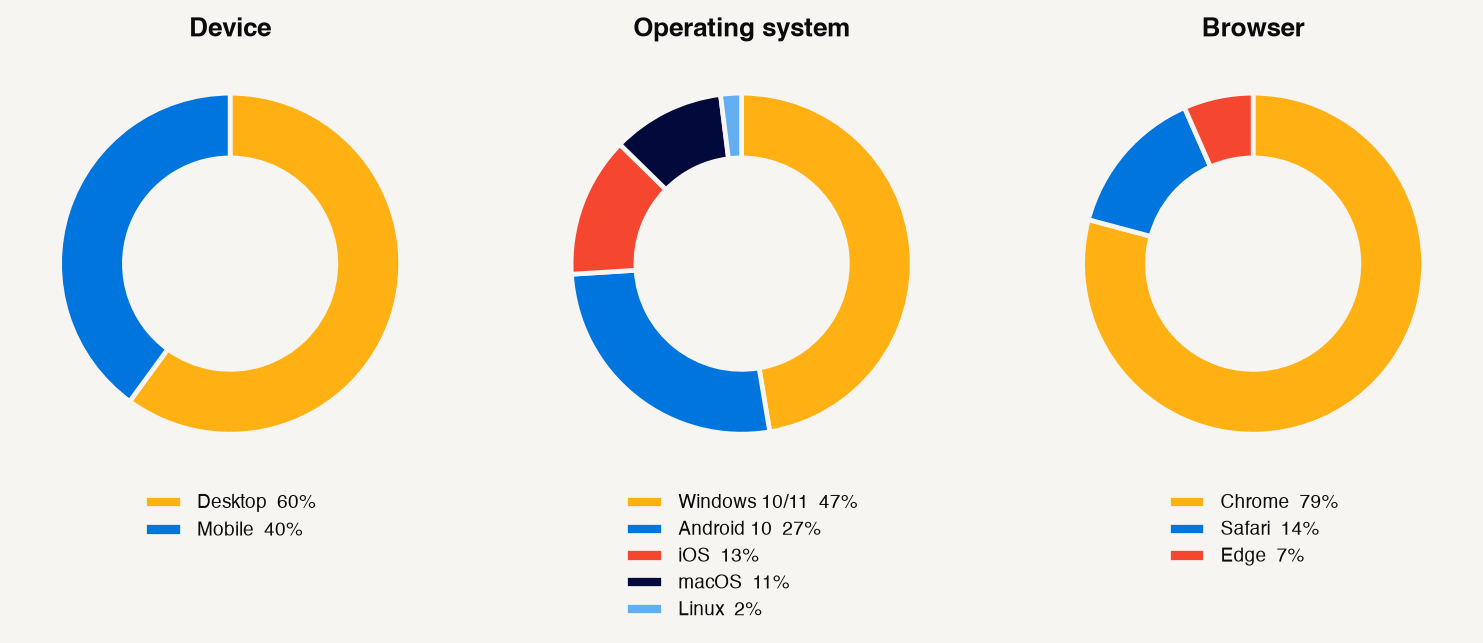
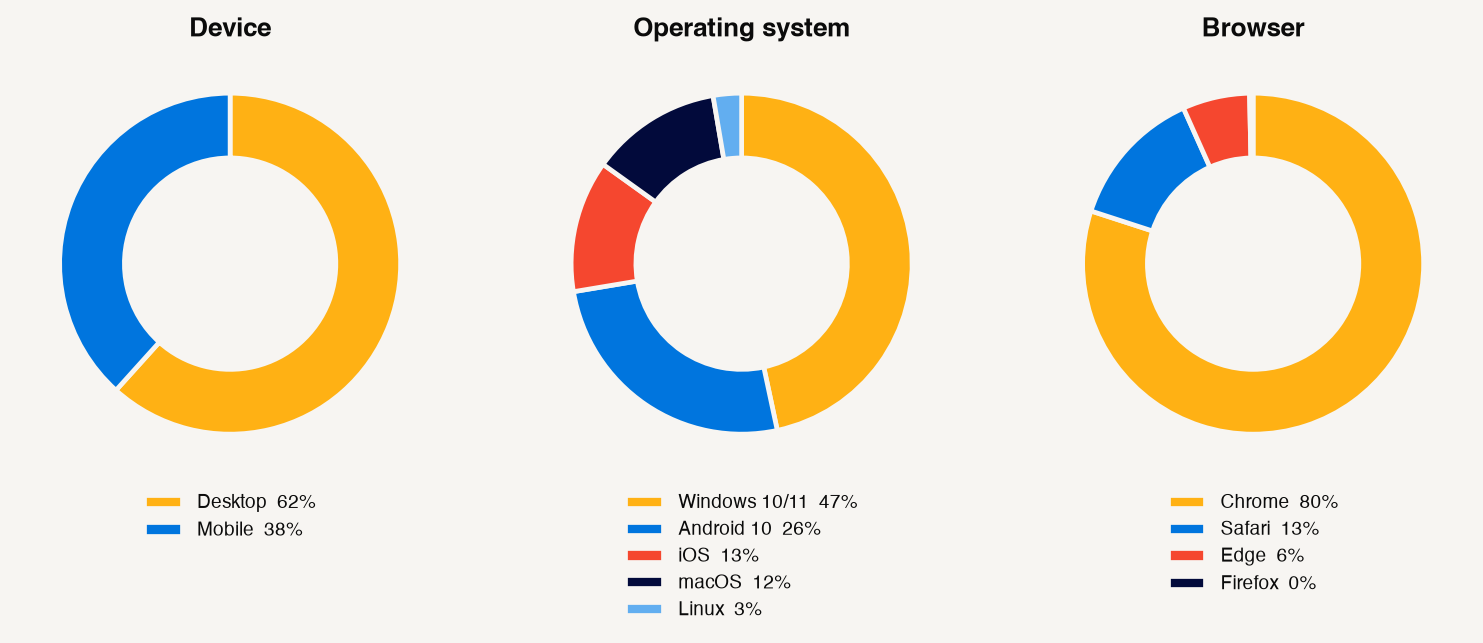
Refresh analytics to 44 hours of data

diff --git a/README.md b/README.md
@@ -21,7 +21,7 @@ Every semester, every engineering student has to submit a **lab record file**: t
 | **Time to a finished file** | a few seconds (median **3.3 s** click to file) |
 | **Login** | none |
 | **Install** | none, runs in the browser, works on phones |
-| **First 27 hours live** | **255** unique visitors, **758** files delivered, **97.3 %** success rate |
+| **First 44 hours live** | **291** unique visitors, **895** files delivered, **97.7 %** success rate |
 
 ---
 
@@ -272,29 +272,29 @@ What that pipeline gave the files:
 
 ## 9. Launch analytics (anonymous)
 
-First **27 hours** after going live, measured from the product's own usage log (IST). Everything here is aggregated and anonymous.
+First **44 hours** after going live (17 Nov, 4 PM to 19 Nov, noon), measured from the product's own usage log (IST). Everything here is aggregated and anonymous.
 
 ### Headline numbers
 
 | Metric | Value |
 |---|---|
-| Page views | **549** |
-| Unique visitors | **255** |
-| Files delivered | **758** |
-| Success rate | **97.3 %** |
-| Returning visitors | **127** (50 %) |
-| Visitors who downloaded at least once | **154** (60 %) |
-| Visitors who downloaded 3 or more files | **88** (35 %) |
+| Page views | **646** |
+| Unique visitors | **291** |
+| Files delivered | **895** |
+| Success rate | **97.7 %** |
+| Returning visitors | **153** (53 %) |
+| Visitors who downloaded at least once | **179** (62 %) |
+| Visitors who downloaded 3 or more files | **105** (36 %) |
 | Median time from click to finished file | **3.3 s** |
 | Average file size | **about 3 MB** |
-| Total data delivered | **about 2.3 GB** |
+| Total data delivered | **about 2.7 GB** |
 | Real-time peak | **132 downloads in a single hour** |
 
 ### Traffic, hour by hour
 
 <p align="center"><img src="analytics/01_timeline.png" width="860" alt="Hourly traffic" /></p>
 
-It spread by word of mouth in class group chats: a first wave on the evening it launched, a quiet night, and a second wave the next morning as more classes found it. The peak hour carried **132 downloads**, handled with no queue, which is exactly the burst the "build on the device" design was meant for.
+It spread by word of mouth in class group chats: a first wave on the evening it launched, a quiet night, a bigger second day as more classes found it (479 downloads on day two versus 350 on launch day), and steady traffic continuing into day three. The peak hour carried **132 downloads**, handled with no queue, which is exactly the burst the "build on the device" design was meant for.
 
 ### When students use it
 
@@ -306,7 +306,7 @@ Two clear rhythms: **late evening to midnight** (the night-before-submission cru
 
 <p align="center"><img src="analytics/04_funnel.png" width="620" alt="Funnel" /></p>
 
-**60 %** of visitors downloaded something, which is very high for a tool with no onboarding. Half of all visitors **came back**, and **35 %** came back to grab three or more files.
+**62 %** of visitors downloaded something, which is very high for a tool with no onboarding. More than half of all visitors (**53 %**) **came back**, and **36 %** grabbed three or more files.
 
 ### Which labs people want
 
@@ -314,17 +314,17 @@ Two clear rhythms: **late evening to midnight** (the night-before-submission cru
 
 | Rank | Product | Downloads | Share |
 |---|---|---|---|
-| 1 | PRCV | 180 | 23.7 % |
-| 2 | ML | 122 | 16.1 % |
-| 3 | RLDL | 114 | 15.0 % |
-| 4 | DWDM | 106 | 14.0 % |
-| 5 | DS | 82 | 10.8 % |
-| 6 | PRCV case study 2 | 51 | 6.7 % |
-| 7 | ML case study 1 | 44 | 5.8 % |
-| 8 | ML case study 2 | 38 | 5.0 % |
-| 9 | PRCV case study 1 | 21 | 2.8 % |
+| 1 | PRCV | 203 | 22.7 % |
+| 2 | ML | 146 | 16.3 % |
+| 3 | DWDM | 143 | 16.0 % |
+| 4 | RLDL | 129 | 14.4 % |
+| 5 | DS | 107 | 12.0 % |
+| 6 | PRCV case study 2 | 55 | 6.1 % |
+| 7 | ML case study 1 | 48 | 5.4 % |
+| 8 | ML case study 2 | 40 | 4.5 % |
+| 9 | PRCV case study 1 | 24 | 2.7 % |
 
-The four case studies were added **after** launch and still took about **a fifth of all downloads**, so they are worth the effort.
+The four case studies were added **after** launch and still took nearly **a fifth of all downloads** (167 of 895), so they are worth the effort.
 
 ### Students who grabbed the whole set
 
@@ -336,13 +336,13 @@ A large group did not stop at one subject. They downloaded **three or more diffe
 
 <p align="center"><img src="analytics/08_india_map.png" width="860" alt="India map of visitors" /></p>
 
-About **96 %** of visitors are in India, and **over half sit inside Delhi NCR**: Delhi itself, Ghaziabad, Gurugram, Greater Noida, Faridabad and the surrounding localities, with a few visitors from Haryana, Punjab, Bihar, Rajasthan and Uttarakhand. Location is approximate, detected from the network, not exact. The handful of visitors outside India were almost all cloud crawlers, not students.
+About **96 %** of visitors are in India, and **most sit inside Delhi NCR**: Delhi itself, Ghaziabad, Gurugram, Greater Noida, Faridabad and the surrounding localities, with a few visitors from Haryana, Punjab, Bihar, Rajasthan and Uttarakhand. Location is approximate, detected from the network, not exact. The handful of visitors outside India were almost all cloud crawlers, not students.
 
 ### Devices
 
 <p align="center"><img src="analytics/05_devices.png" width="860" alt="Devices" /></p>
 
-**About 40 % of downloads came from phones.** Students download first and print later, so mobile had to be a first-class citizen, not an afterthought. Chrome dominates, with Safari on iPhones next.
+**About 38 % of downloads came from phones.** Students download first and print later, so mobile had to be a first-class citizen, not an afterthought. Chrome dominates, with Safari on iPhones next.
 
 ### Loyalty and speed
 
@@ -354,7 +354,7 @@ Left: how many times each visitor came back. Right: how long each download took 
 
 | Outcome | Count |
 |---|---|
-| Completed | 758 |
+| Completed | 895 |
 | Politely stopped by the hourly limit | 7 |
 | Rejected as bad input | 5 |
 | Left before finishing | 9 |
@@ -364,7 +364,7 @@ Left: how many times each visitor came back. Right: how long each download took 
 ## 10. What I learned
 
 1. **The boring part is the product.** Students did not want a clever website. They wanted their weekend back. Most of the value is the verified content and the polish on it.
-2. **Free, instant, no-login wins.** 60 % of visitors converting with zero onboarding says friction was the enemy all along.
+2. **Free, instant, no-login wins.** 62 % of visitors converting with zero onboarding says friction was the enemy all along.
 3. **Move work to the user's device.** It turned a "server melts on submission night" problem into a non-problem, and kept hosting cost near zero.
 4. **Design for a stressed person at midnight on a phone.** Big tiles, one required field, instant feedback.
 5. **Add the second wave of content after launch.** The case studies came from watching what students asked for next.
